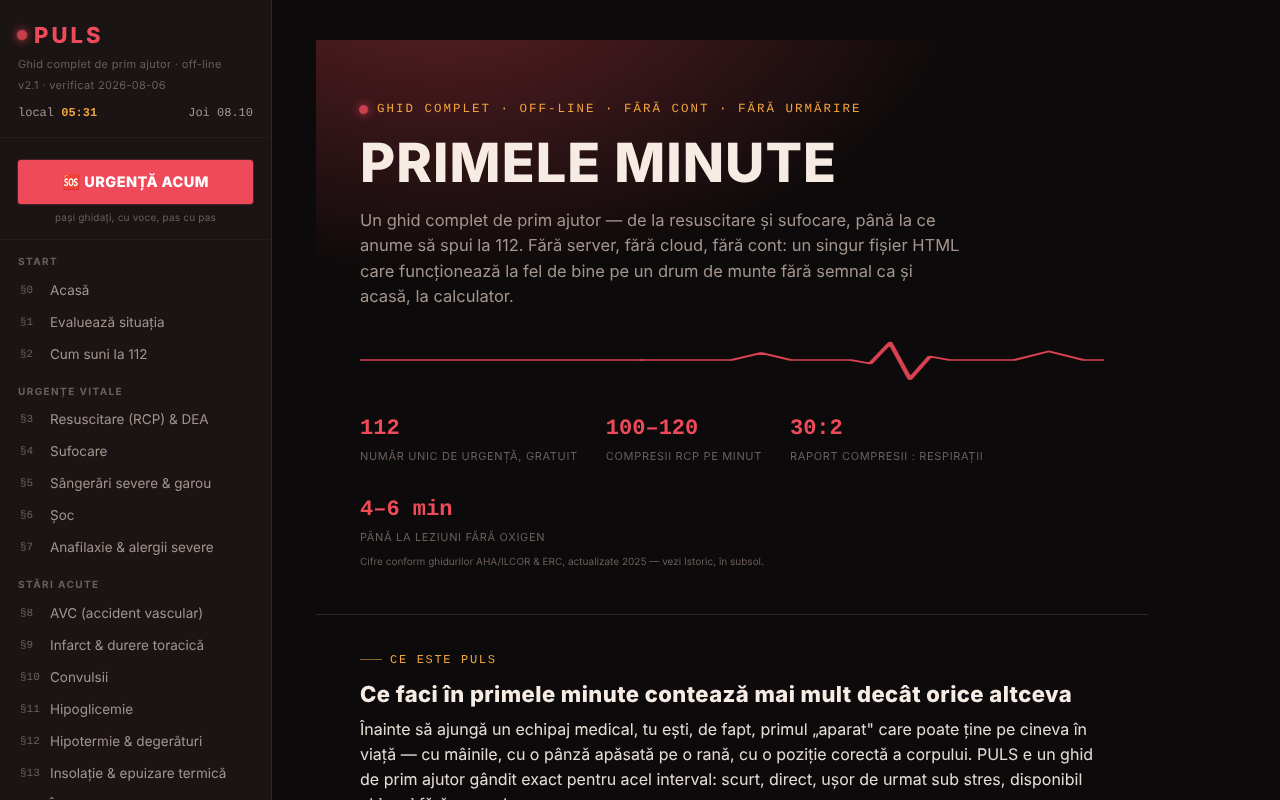
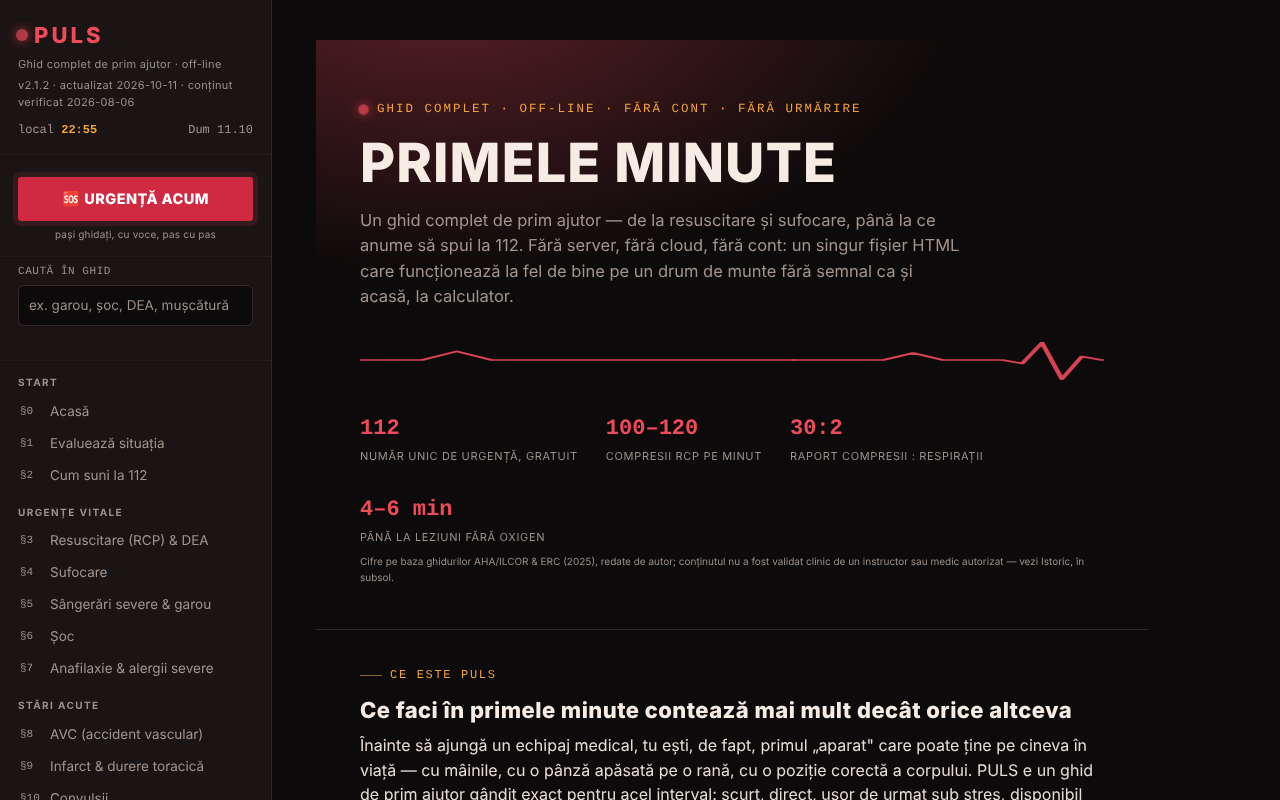
Runda 6 (11 octombrie 2026): reparații și îmbunătățiri
Claude-Session: https://claude.ai/code/session_01D2sCEb3hy3nutYexhUfQFs

diff --git a/index.html b/index.html
@@ -3,7 +3,7 @@
 <head>
 <meta charset="UTF-8">
 <meta name="viewport" content="width=device-width, initial-scale=1.0">
-<meta http-equiv="Content-Security-Policy" content="default-src 'none'; script-src 'sha256-HuY3yiwPkmlvmOw3fzhYyASAoe9J/u7E6WArzz0N4DE=' 'sha256-5U6D1hs52GTqTuIKFCmKiZ2sKZstNK/GdfXwajOEJcs='; style-src 'unsafe-inline'; img-src data: blob:; media-src data: blob:; font-src data:; connect-src 'none'; base-uri 'none'; form-action 'none'; frame-src 'none'; object-src 'none'; worker-src 'none'; manifest-src 'none'">
+<meta http-equiv="Content-Security-Policy" content="default-src 'none'; script-src 'sha256-HuY3yiwPkmlvmOw3fzhYyASAoe9J/u7E6WArzz0N4DE=' 'sha256-5rWcUukMexZX8Ti+zQ5TeY1axaoHAxqC8vh/WTUyRGE='; style-src 'unsafe-inline'; img-src data: blob:; media-src data: blob:; font-src data:; connect-src 'none'; base-uri 'none'; form-action 'none'; frame-src 'none'; object-src 'none'; worker-src 'none'; manifest-src 'none'">
 <title>PULS — Ghid complet de prim ajutor</title>
 <meta name="description" content="Ghid complet, off-line, de prim ajutor: resuscitare (RCP), sufocare, sângerări, arsuri, șoc anafilactic, AVC și multe altele — un singur fișier, fără cont, fără internet.">
 <style>
@@ -373,7 +373,15 @@ footer a:hover{color:var(--pulse);}
 footer .legal{margin-top:26px;padding-top:16px;border-top:1px solid var(--line-soft);font-size:11.5px;color:var(--ink-faint);}
 @media (max-width:720px){footer .fgrid{grid-template-columns:1fr;}}
 
+/* Runda 6: căutare în ghid + margini hero pe mobil */
+.navsearch{padding:0 18px 12px;border-bottom:1px solid var(--line-soft);margin-bottom:10px;}
+.navsearch input{width:100%;background:var(--bg);color:var(--ink);border:1px solid var(--line);border-radius:6px;padding:9px 10px;font:inherit;font-size:13.5px;}
+.navsearch input::placeholder{color:var(--ink-faint);}
+.navq-status{font-size:12px;color:var(--ink-dim);min-height:16px;margin-top:6px;}
+.nq-hide{display:none !important;}
+@media (max-width:900px){.hero{padding:36px 16px 32px;}}
 @media print{
+  .navsearch{display:none !important;}
   .topbar,.sidebar,.scrim,footer,.btn,.btnrow,.hero-stats,#emergencyOverlay,input,.searchbox,.chip,.quiz-opt,.quiz-explain,button{display:none !important;}
   html,body{background:#fff !important;}
   .shell{display:block !important;}
@@ -519,13 +527,19 @@ kbd{font-family:var(--font-mono);background:var(--panel-2);border:1px solid var(
   <div class="brandblock">
     <div class="brand"><span class="dot"></span> PULS</div>
     <div class="tagline">Ghid complet de prim ajutor · off-line</div>
-    <div class="tagline">v2.1.1 · actualizat 2026-10-11 · conținut verificat 2026-08-06</div>
+    <div class="tagline">v2.1.2 · actualizat 2026-10-11 · conținut verificat 2026-08-06</div>
     <div class="clock"><span>local <b id="localClock">--:--</b></span><span id="dateClock"></span></div>
   </div>
 
   <div class="sosblock">
     <button class="sosbtn-main" id="sosBtnMain" type="button">🆘 URGENȚĂ ACUM</button>
     <div class="sos-sub">pași ghidați, cu voce, pas cu pas</div>
+  </div>
+
+  <div class="navsearch" role="search">
+    <label for="navq" class="navlabel" style="display:block">Caută în ghid</label>
+    <input id="navq" type="search" placeholder="ex. garou, șoc, DEA, mușcătură" autocomplete="off" enterkeyhint="search">
+    <div class="navq-status" id="navqStatus" role="status" aria-live="polite"></div>
   </div>
 
   <div class="navgroup">
@@ -1750,7 +1764,7 @@ kbd{font-family:var(--font-mono);background:var(--panel-2);border:1px solid var(
     </div>
   </div>
   <div style="margin-top:18px;font-size:11.5px;color:var(--ink-faint);line-height:1.7;">
-    <b style="color:var(--ink-dim);">Istoric</b> — <span style="font-family:var(--font-mono);">v2.1.1</span> (2026-10-11): corecții de accesibilitate și de aspect pe mobil (repere, ordinea titlurilor, margini), politică CSP; conținutul medical nu s-a schimbat. <span style="font-family:var(--font-mono);">v2.1</span> (2026-08-06): feedback RCP din accelerometrul telefonului (măsoară ritmul real de compresie, complementar metronomului), cronometru de rotație a salvatorilor la fiecare 2 minute integrat în metronomul RCP, link către cel mai apropiat spital/farmacie (singura funcție din PULS care iese din pagină și are nevoie de conexiune). <span style="font-family:var(--font-mono);">v2.0</span> (2026-08-06): cardul meu de urgență (QR local, personalizează Mod Urgență pe baza alergiilor tale notate, rezumat de predare pentru echipaj), triaj START interactiv cu tablou de victime multiple, semnalizare de urgență (sirenă, SOS Morse audio+ecran, strobe, bliț telefon unde e suportat), activare Mod Urgență prin scuturarea telefonului (procesare locală), cronometre în arsuri/ochi/convulsii, cronometru de garou cu badge persistent între secțiuni. 32 de secțiuni în total.
+    <b style="color:var(--ink-dim);">Istoric</b> — <span style="font-family:var(--font-mono);">v2.1.2</span> (2026-10-11): căutare în tot ghidul (sidebar), tema inițială urmează preferința sistemului, margini corecte la prima secțiune pe mobil; conținutul medical nu s-a schimbat. <span style="font-family:var(--font-mono);">v2.1.1</span> (2026-10-11): corecții de accesibilitate și de aspect pe mobil (repere, ordinea titlurilor, margini), politică CSP; conținutul medical nu s-a schimbat. <span style="font-family:var(--font-mono);">v2.1</span> (2026-08-06): feedback RCP din accelerometrul telefonului (măsoară ritmul real de compresie, complementar metronomului), cronometru de rotație a salvatorilor la fiecare 2 minute integrat în metronomul RCP, link către cel mai apropiat spital/farmacie (singura funcție din PULS care iese din pagină și are nevoie de conexiune). <span style="font-family:var(--font-mono);">v2.0</span> (2026-08-06): cardul meu de urgență (QR local, personalizează Mod Urgență pe baza alergiilor tale notate, rezumat de predare pentru echipaj), triaj START interactiv cu tablou de victime multiple, semnalizare de urgență (sirenă, SOS Morse audio+ecran, strobe, bliț telefon unde e suportat), activare Mod Urgență prin scuturarea telefonului (procesare locală), cronometre în arsuri/ochi/convulsii, cronometru de garou cu badge persistent între secțiuni. 32 de secțiuni în total.
     <details style="margin-top:4px;"><summary style="cursor:pointer;">versiuni mai vechi</summary>
     <span style="font-family:var(--font-mono);">v1.0</span> (2026-08-06): versiune inițială — 29 de secțiuni, mod Urgență cu 9 manevre ghidate, metronom RCP cu sunet/vibrație, test de cunoștințe, glosar A–Z. Conținutul de RCP/sufocare reflectă actualizările AHA/ILCOR din 2025 (adâncime compresii cu prag maxim, lovituri în spate la sufocarea adultului, tehnică nouă pentru compresii la sugari).
     </details>
@@ -4143,6 +4157,52 @@ function initNav(){
   $$('.navlink').forEach(btn=>{
     btn.addEventListener('click', ()=>{ switchToSection(btn.dataset.sec); });
   });
+  initNavSearch();
+}
+/* Căutare în tot ghidul (text integral al secțiunilor, fără diacritice, local). Enter deschide primul rezultat. */
+function normQ(t){ return String(t||'').normalize('NFD').replace(/[\u0300-\u036f]/g,'').toLowerCase().replace(/\s+/g,' ').trim(); }
+function initNavSearch(){
+  const inp = $('#navq'), st = $('#navqStatus');
+  if(!inp) return;
+  let idx = null;
+  function build(){
+    idx = $$('.navlink').map(b=>{
+      const sec = document.getElementById('sec-'+b.dataset.sec);
+      return { btn:b, title:normQ(b.textContent), body: sec ? normQ(sec.textContent) : '' };
+    });
+  }
+  function run(){
+    const q = normQ(inp.value);
+    if(!idx) build();
+    const words = q ? q.split(' ') : [];
+    let n = 0;
+    idx.forEach(it=>{
+      const hay = it.title + ' ' + it.body;
+      const hit = !words.length || words.every(w=>hay.indexOf(w)!==-1);
+      it.btn.classList.toggle('nq-hide', !hit);
+      if(hit) n++;
+    });
+    $$('.navgroup').forEach(g=>{
+      const any = $$('.navlink', g).some(b=>!b.classList.contains('nq-hide'));
+      g.classList.toggle('nq-hide', !any);
+    });
+    st.textContent = !q ? '' : (n ? (n===1 ? '1 secțiune găsită' : n+' secțiuni găsite')+' · Enter deschide cea mai potrivită' : 'Nicio secțiune nu conține „'+inp.value.trim()+'”');
+  }
+  inp.addEventListener('input', run);
+  inp.addEventListener('keydown', e=>{
+    if(e.key==='Enter'){
+      const q = normQ(inp.value), ws = q.split(' ');
+      const vis = idx ? idx.filter(it=>!it.btn.classList.contains('nq-hide')) : [];
+      let best = null, bs = -1;   /* cea mai potrivită: titlu (+1000), apoi numărul de apariții */
+      vis.forEach(it=>{
+        let sc = ws.every(w=>it.title.indexOf(w)!==-1) ? 1000 : 0;
+        ws.forEach(w=>{ sc += it.body.split(w).length-1; });
+        if(it.btn.dataset.sec==='acasa') sc -= 0.5;   /* la egalitate, nu prima pagină */
+        if(sc>bs){ bs = sc; best = it; }
+      });
+      if(best && q){ e.preventDefault(); switchToSection(best.btn.dataset.sec); }
+    } else if(e.key==='Escape' && inp.value){ inp.value=''; run(); }
+  });
 }
 function openDrawer(){
   $('#sidebar').classList.add('open');
@@ -4165,6 +4225,8 @@ function setTheme(mode){
   else document.documentElement.removeAttribute('data-theme');
 }
 function initTheme(){
+  /* Respectă preferința sistemului (lumină) la prima afișare; butoanele rămân la îndemâna utilizatorului. */
+  try{ if(window.matchMedia && window.matchMedia('(prefers-color-scheme: light)').matches) setTheme('zi'); }catch(e){}
   $('#themeBtnNoapte').addEventListener('click', ()=>setTheme('noapte'));
   $('#themeBtnZi').addEventListener('click', ()=>setTheme('zi'));
   $('#themeBtnMobile').addEventListener('click', ()=>{

diff --git a/README.md b/README.md
@@ -8,7 +8,7 @@ Ghid complet de prim ajutor, într-un singur fișier HTML.
 
 ## Ce este
 
-PULS (v2.1.1 în aplicație, actualizat 2026-10-11; conținutul medical a fost verificat ultima dată la 2026-08-06 și nu a fost reverificat clinic) este un ghid de prim ajutor în limba română, cu 32 de secțiuni și un „Mod Urgență” care te conduce pas cu pas, cu voce, prin manevre. Conținutul este declarat educațional, redat de autor pe baza ghidurilor ERC, AHA/ILCOR și OMS, **fără validare clinică de către un instructor sau medic autorizat**, și **nu înlocuiește** un curs autorizat, avizul medical sau intervenția profesională; în urgență reală se sună la 112.
+PULS (v2.1.2 în aplicație, actualizat 2026-10-11; conținutul medical a fost verificat ultima dată la 2026-08-06 și nu a fost reverificat clinic) este un ghid de prim ajutor în limba română, cu 32 de secțiuni și un „Mod Urgență” care te conduce pas cu pas, cu voce, prin manevre. Conținutul este declarat educațional, redat de autor pe baza ghidurilor ERC, AHA/ILCOR și OMS, **fără validare clinică de către un instructor sau medic autorizat**, și **nu înlocuiește** un curs autorizat, avizul medical sau intervenția profesională; în urgență reală se sună la 112.
 
 ## Funcții
 
@@ -18,7 +18,8 @@ PULS (v2.1.1 în aplicație, actualizat 2026-10-11; conținutul medical a fost v
 - Cardul meu de urgență (grupă sanguină, alergii, afecțiuni, medicație, contact) cu export/import `.json` și generare de cod QR local; datele personalizează avertismentele din Mod Urgență.
 - Triaj START cu listă de victime, semnalizare de urgență (sirenă, SOS Morse, strobe, bliț unde e suportat), activare Mod Urgență prin scuturarea telefonului (DeviceMotion).
 - Butoane „Sună 112”, „Trimite locația mea” (geolocalizare + Web Share), „Cel mai apropiat spital”.
-- Test de cunoștințe (până la zece întrebări pe rundă), tema Noapte/Zi, tipărirea secțiunii curente, buton „Raportează o eroare” (mailto).
+- **Căutare în ghid** (sidebar): caută în textul integral al celor 32 de secțiuni, fără diacritice (ex. „garou”, „musc”), filtrează meniul; Enter deschide secțiunea cea mai potrivită, Esc golește câmpul.
+- Test de cunoștințe (până la zece întrebări pe rundă), tema Noapte/Zi (la prima deschidere urmează preferința de sistem „lumină/întuneric”), tipărirea secțiunii curente, buton „Raportează o eroare” (mailto).
 
 ## Manual de utilizare
 
@@ -50,7 +51,10 @@ Audit: 2026-10-10 — verificat cu Playwright și axe-core (WCAG 2.1 AA, ambele 
 
 ## Istoric / Changelog
 
-Ultima actualizare: 11 octombrie 2026 — v2.1.1 (patch; conținutul medical neschimbat).
+Ultima actualizare: 11 octombrie 2026 — v2.1.2 (patch; conținutul medical neschimbat).
+- Căutare în tot ghidul din sidebar; tema inițială urmează `prefers-color-scheme`; hero-ul primei secțiuni are margini de 16 px pe ecrane ≤ 900 px (înainte 44 px interni, textul rămânea ~240 px lat pe 360 px). Hash-ul CSP recalculat; axe-core = 0 violări la 1280 și 360 px, în ambele teme.
+
+v2.1.1 (11 octombrie 2026):
 - Margini laterale de 16 px pe ecrane ≤ 900 px (înainte 44 px, care îngusta textul pe 360 px).
 - Accesibilitate: bara de sus este `<header>`, titlurile din subsol sunt h2 (ordine corectă); axe-core = 0 violări la 1280 și 360 px.
 - Adăugată politică CSP (`<meta>`): scripturi doar pe bază de hash, `connect-src 'none'`.
